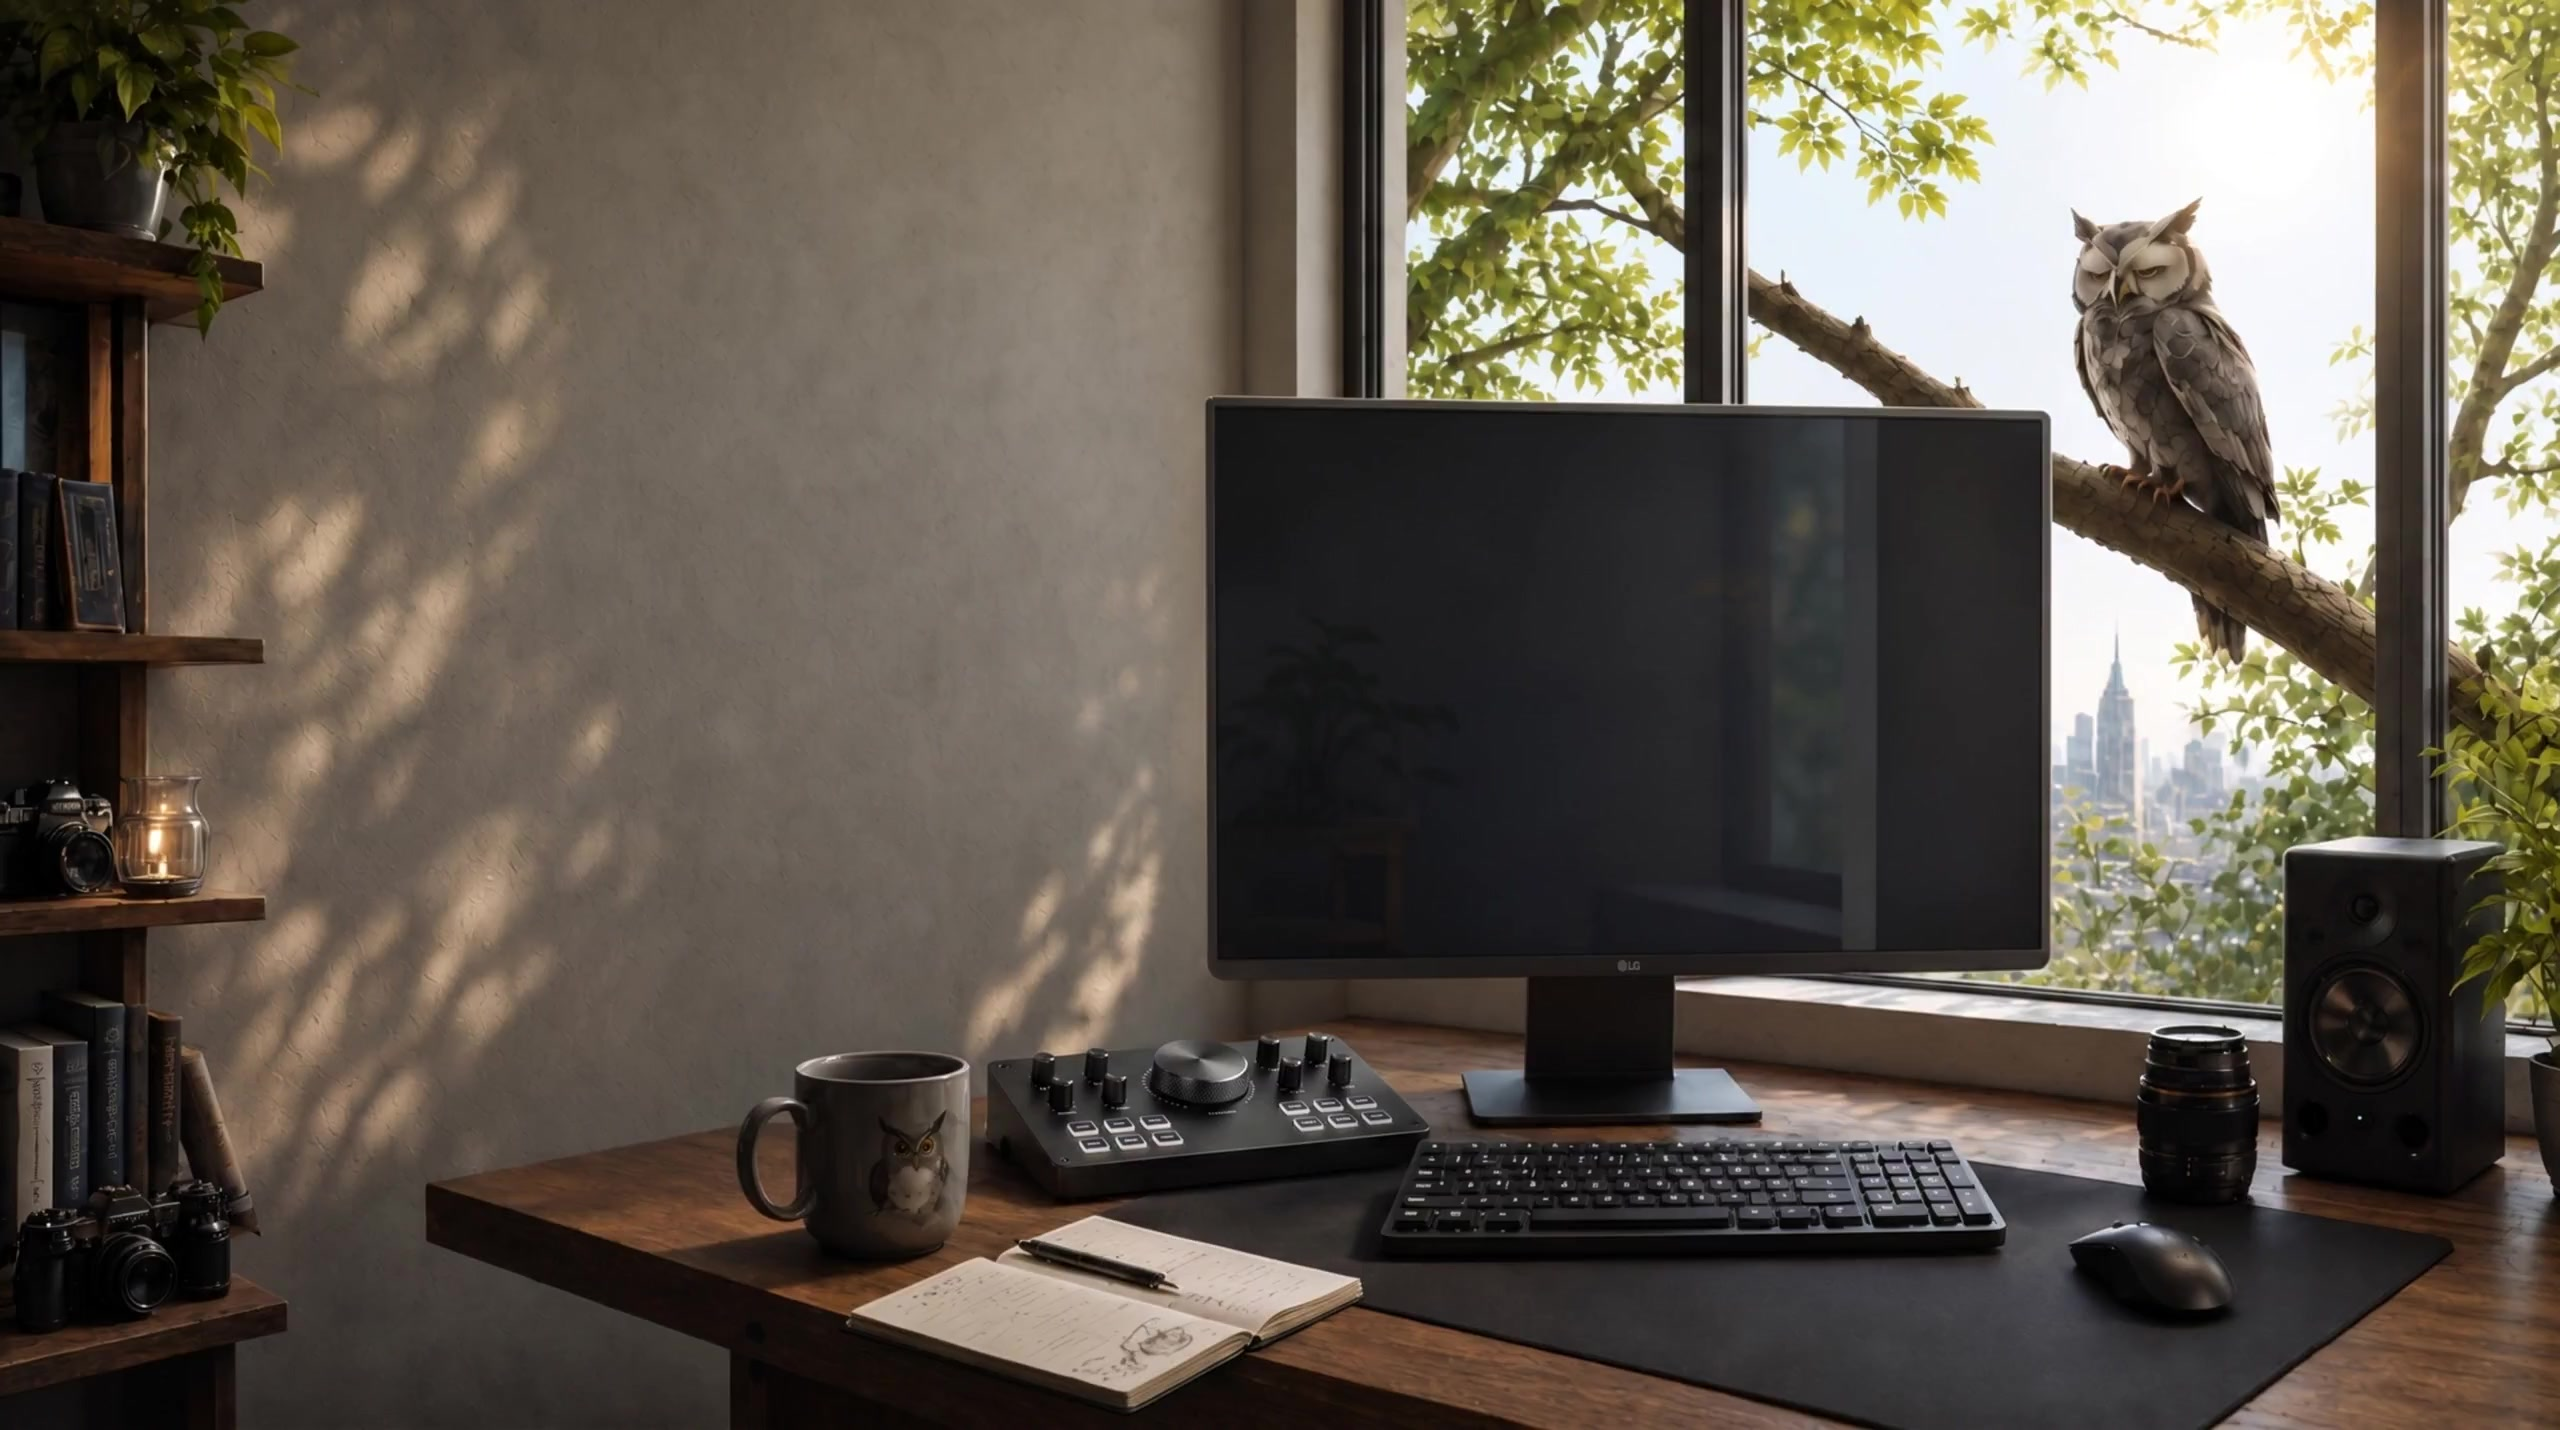
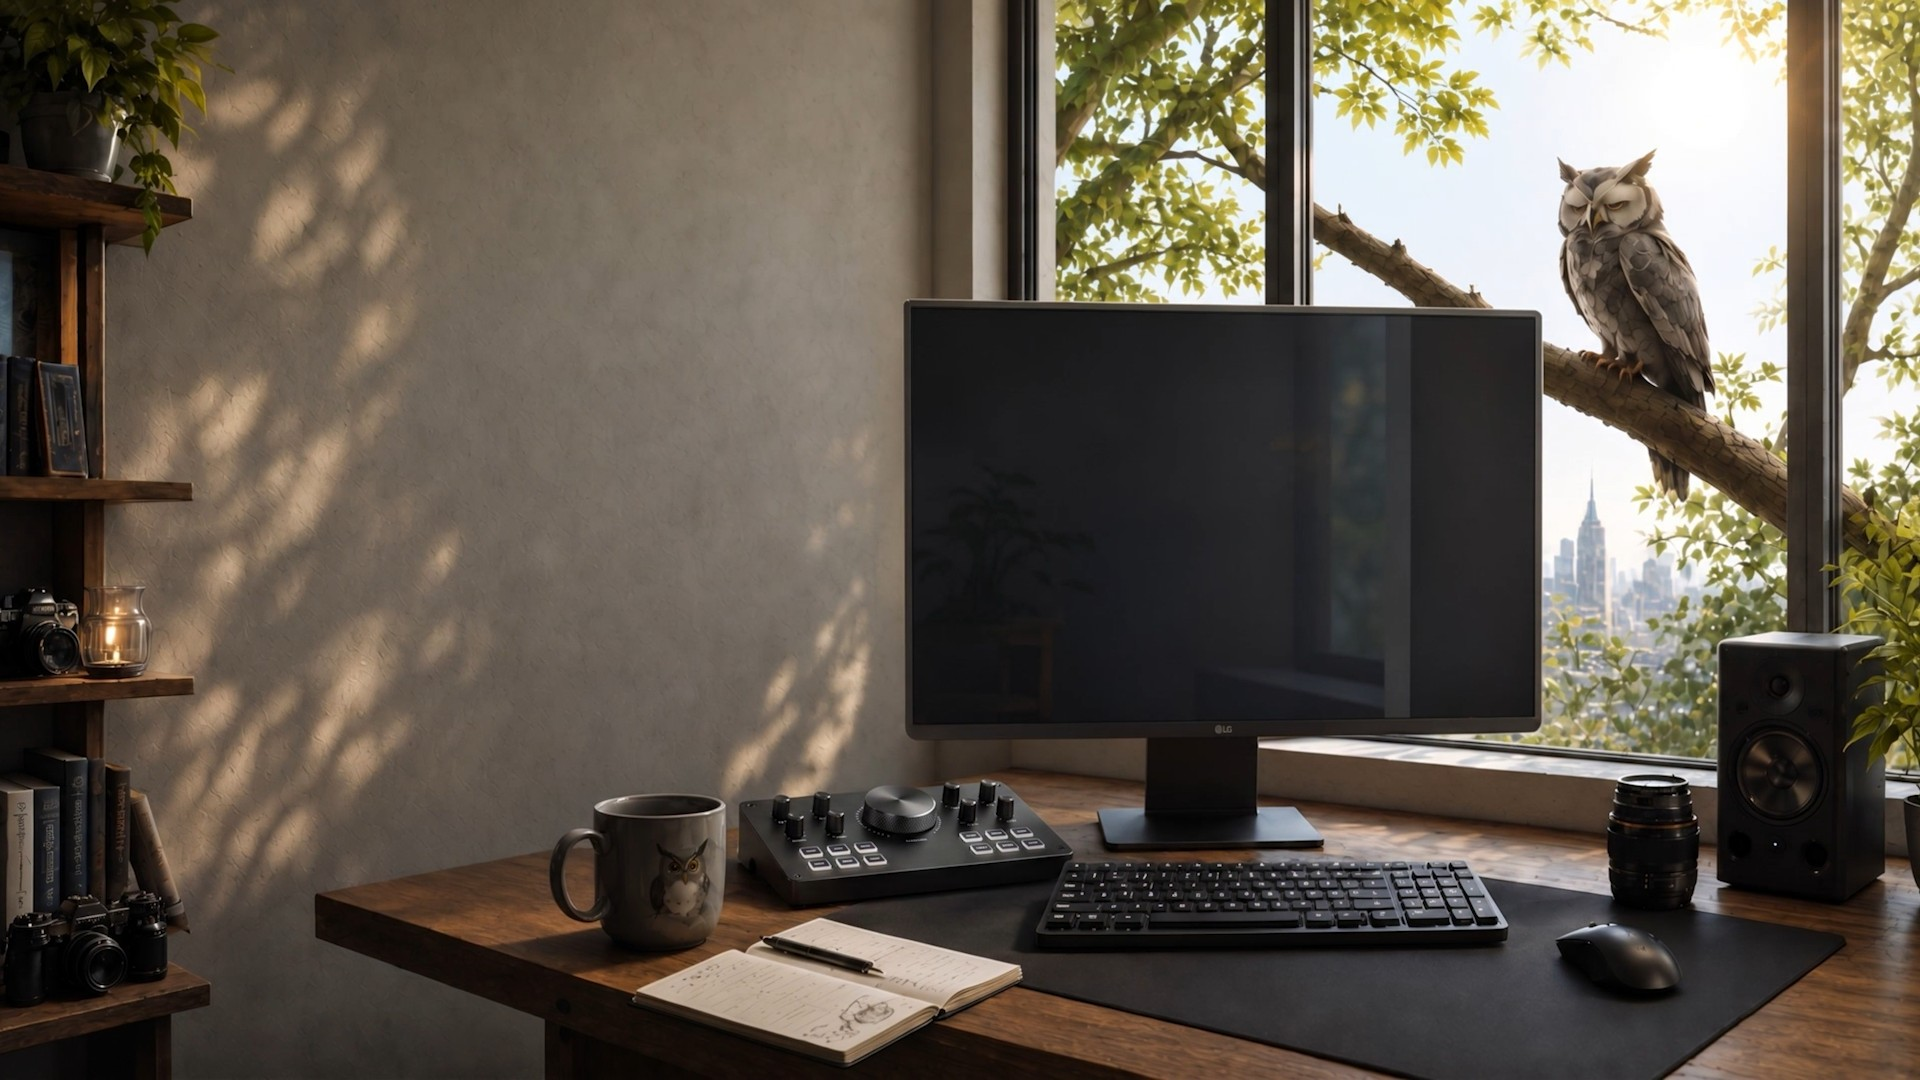
auto-commit for 32333288-a044-423b-a405-b2919ac58398

diff --git a/frontend/src/components/site/Approach.jsx b/frontend/src/components/site/Approach.jsx
@@ -9,8 +9,9 @@ import { APPROACH } from "@/constants/testIds";
 // Midnight Owl workspace video.
 // Frame 0  = NIGHT (moon, awake owl, dark room)
 // Last frame = DAY (sunshine, sleeping owl, bright room)
-// Video is 2560 × 1430 (≈1.79:1), all-intra H.264 for smooth bidirectional
-// scrubbing on every platform. Duration ≈ 5s @ 24fps.
+// Video is 1920 × 1080 (16:9), all-intra H.264 (CRF 15) encoded from the
+// original 121-frame WebP sequence for smooth bidirectional scrubbing.
+// Duration ≈ 5s @ 24fps.
 //
 // Slow-connection strategy: until the video is FULLY buffered, the Push/Pull
 // transition is a smooth crossfade between two stills (night/day keyframes).
@@ -23,18 +24,18 @@ const WORKSPACE_DAY_URL = "/images/owl-workspace-day.jpg";
 
 // Natural aspect of the workspace video — the wrapper matches it exactly
 // so percentage-anchored overlays map 1:1 onto video pixels (zero crop).
-const VIDEO_ASPECT = "2560 / 1430";
+const VIDEO_ASPECT = "1920 / 1080";
 
 // The monitor in the frame is slightly tilted (perspective), so the screen
 // is a QUAD, not an axis-aligned rectangle. Corners measured from the video
-// frame (as % of frame width/height), inset ~0.15% so the card never touches
-// the bezel anti-aliasing. The Examples card is perspective-mapped onto this
+// frame (as % of frame width/height), inset so the card sits just inside
+// the LG monitor bezel. The Examples card is perspective-mapped onto this
 // quad with a computed CSS matrix3d — a true "projected on the screen" fit.
 const SCREEN_QUAD = {
-  tl: [47.22, 27.9],
-  tr: [79.68, 29.38],
-  br: [79.94, 67.62],
-  bl: [47.27, 68.55],
+  tl: [48.0, 29.9],
+  tr: [79.4, 30.7],
+  br: [79.4, 66.9],
+  bl: [48.0, 66.0],
 };
 // Pre-transform card rectangle (% of wrapper) — proportions close to the
 // quad's natural size so content isn't visibly distorted by the mapping.

diff --git a/test_result.md b/test_result.md
@@ -592,14 +592,14 @@ agent_communication:
   - agent: "testing"
     message: "Iteration 6.1 bug fix testing COMPLETE. All tests PASSED ✅. PRIMARY BUG FIX VERIFIED: The double audio bug is completely resolved. Desktop viewport shows exactly 3 play buttons (not 6), proving only one layout renders. When playing a video, exactly 1 iframe mounts (not 2) - this is the core fix. Switching between videos correctly unmounts the previous iframe, stopping its audio. Mobile viewport also shows exactly 3 play buttons and 1 iframe when playing. Cross-viewport resize test confirms no orphan iframes survive layout changes (playingIdx resets to -1). All regression checks passed: custom thumbnails present, no kicker tags, allstarsteven comment with verified badge visible in Voices, HowItWorks arrows functional. The matchMedia hook implementation successfully prevents the root cause - only ONE iframe can exist in the DOM at any time, eliminating the parallel audio playback issue. Ready for production."
   - agent: "testing"
-    message: "Brief form validation UX testing COMPLETE at https://seamless-hero-flow.preview.emergentagent.com/brief. All critical validation behaviors verified and working correctly: (1) Required field indicators (*) correctly shown only on 'Full name' and 'Email address' labels, NOT on Phone/Company/Website. (2) Submit button is always clickable (not disabled) when form is empty, only disabled while submitting. (3) Empty form submission triggers red error summary banner (data-testid='brief-error-summary') showing '4 THINGS NEED YOUR ATTENTION' with inline red errors below name, email, services, and projectDetails fields. Page smoothly scrolls to first invalid field (name). (4) Invalid email 'notanemail' shows friendly inline error: 'That email doesn't look right — try something like [email redacted].' (5) Errors clear in real-time as user types valid input - email error disappeared when typing '[email redacted]'. (6) Valid submission with all fields filled correctly (name: 'Playwright Test', phone: '[phone redacted]', email: '[email redacted]', company: 'Test Co', website: 'https://example.com', service: 'Video Production and Ad Films', project details: proper description) successfully completes and shows success state with data-testid='brief-success-heading' displaying 'We've got your brief.' Minor note: Error summary text is styled in uppercase via CSS (intentional design), not a bug. All validation logic, error handling, and UX flows working as specified."
+    message: "Brief form validation UX testing COMPLETE at https://push-pull-demo-1.preview.emergentagent.com/brief. All critical validation behaviors verified and working correctly: (1) Required field indicators (*) correctly shown only on 'Full name' and 'Email address' labels, NOT on Phone/Company/Website. (2) Submit button is always clickable (not disabled) when form is empty, only disabled while submitting. (3) Empty form submission triggers red error summary banner (data-testid='brief-error-summary') showing '4 THINGS NEED YOUR ATTENTION' with inline red errors below name, email, services, and projectDetails fields. Page smoothly scrolls to first invalid field (name). (4) Invalid email 'notanemail' shows friendly inline error: 'That email doesn't look right — try something like [email redacted].' (5) Errors clear in real-time as user types valid input - email error disappeared when typing '[email redacted]'. (6) Valid submission with all fields filled correctly (name: 'Playwright Test', phone: '[phone redacted]', email: '[email redacted]', company: 'Test Co', website: 'https://example.com', service: 'Video Production and Ad Films', project details: proper description) successfully completes and shows success state with data-testid='brief-success-heading' displaying 'We've got your brief.' Minor note: Error summary text is styled in uppercase via CSS (intentional design), not a bug. All validation logic, error handling, and UX flows working as specified."
   - agent: "testing"
-    message: "COMPREHENSIVE SMOKE TEST COMPLETE (Iteration 7 features) at https://seamless-hero-flow.preview.emergentagent.com/. ALL TESTS PASSED ✅. Verified: (1) Owl PNG logo (/images/owl-logo.png) present in Nav (top-left with purple glow next to 'MIDNIGHT OWL MEDIA' wordmark), Footer (bottom with 'Midnight Owl Media' text), and Brief page header (top-left) - all three locations confirmed. (2) Pull-section videos in Approach: All 3 videos playing (pull-1.mp4, pull-2.mp4, pull-3.mp4), play buttons functional (3/3 visible), VideoLightbox opens/closes correctly, Push/Pull toggle works. (3) Work section 'See all' button: Correct href (https://linktr.ee/Midnightowlmedia), opens in new tab (target='_blank'). (4) Brief page new copy: Eyebrow '// Say hello', headline 'Let's talk.' (with 'talk.' in purple italic serif), all 6 section titles present (01 'Hi, my name is…', 02 'You can reach me at…', 03 'I work at…', 04 'I'd like help with…', 05 'Here's what I'm building…', 06 'Send it over'), '// Prefer email?' section at bottom with mailto:[email redacted] link (data-testid='brief-direct-email'). (5) Form submission: Works correctly, shows success state 'We've got your brief.' with owl-eye animation. Backend logs confirm 200 OK responses with successful Slack/Google Sheets integration. Screenshots captured: nav logo, approach pull videos, brief page top/bottom, form success. No issues found - all new features working as specified."
+    message: "COMPREHENSIVE SMOKE TEST COMPLETE (Iteration 7 features) at https://push-pull-demo-1.preview.emergentagent.com/. ALL TESTS PASSED ✅. Verified: (1) Owl PNG logo (/images/owl-logo.png) present in Nav (top-left with purple glow next to 'MIDNIGHT OWL MEDIA' wordmark), Footer (bottom with 'Midnight Owl Media' text), and Brief page header (top-left) - all three locations confirmed. (2) Pull-section videos in Approach: All 3 videos playing (pull-1.mp4, pull-2.mp4, pull-3.mp4), play buttons functional (3/3 visible), VideoLightbox opens/closes correctly, Push/Pull toggle works. (3) Work section 'See all' button: Correct href (https://linktr.ee/Midnightowlmedia), opens in new tab (target='_blank'). (4) Brief page new copy: Eyebrow '// Say hello', headline 'Let's talk.' (with 'talk.' in purple italic serif), all 6 section titles present (01 'Hi, my name is…', 02 'You can reach me at…', 03 'I work at…', 04 'I'd like help with…', 05 'Here's what I'm building…', 06 'Send it over'), '// Prefer email?' section at bottom with mailto:[email redacted] link (data-testid='brief-direct-email'). (5) Form submission: Works correctly, shows success state 'We've got your brief.' with owl-eye animation. Backend logs confirm 200 OK responses with successful Slack/Google Sheets integration. Screenshots captured: nav logo, approach pull videos, brief page top/bottom, form success. No issues found - all new features working as specified."
   - agent: "testing"
-    message: "Iteration 7 bug fixes and content changes testing COMPLETE at https://seamless-hero-flow.preview.emergentagent.com/. ALL CHANGES VERIFIED ✅. PRIMARY BUG FIX (CRITICAL): Get In Touch scroll bug FIXED — /brief page opens at Y=0px with 'Let's talk.' headline visible at Y=160.5px. User flow tested: scrolled landing page to bottom (Y=5919px) → clicked 'Get In Touch' → /brief opened at top (Y=0px). useEffect scroll reset working perfectly. OTHER CHANGES: (1) Approach taglines — Pull: 'Real examples from people who identified the opportunity early!', Push: 'every brand is stuck here' — both verified on monitor screen. (2) Contact section — no golden eyes/pulsing animations (0 found), nightscape bg-3.webp visible with tint, clean design. (3) Background images — FAQ (bg-1.webp), Voices (bg-2.webp), Contact (bg-3.webp) all have cinematic nightscapes with dark linear tints. (4) FAQ heading — 'You might have questions.' with 'questions.' in purple (rgb(164,74,255)) italic. (5) FAQ answer — new single-paragraph answer about proven strategies visible. (6) Brief subtext — all three sentences present, properly separated. (7) Required asterisks — Full name*, Email* (Phone NO asterisk ✓), Section 04 'Select at least one*', Section 05 'About your project*' — all purple (rgb(164,74,255)). Screenshots confirm all visual changes. No issues found — all bug fixes and content changes working as specified."
+    message: "Iteration 7 bug fixes and content changes testing COMPLETE at https://push-pull-demo-1.preview.emergentagent.com/. ALL CHANGES VERIFIED ✅. PRIMARY BUG FIX (CRITICAL): Get In Touch scroll bug FIXED — /brief page opens at Y=0px with 'Let's talk.' headline visible at Y=160.5px. User flow tested: scrolled landing page to bottom (Y=5919px) → clicked 'Get In Touch' → /brief opened at top (Y=0px). useEffect scroll reset working perfectly. OTHER CHANGES: (1) Approach taglines — Pull: 'Real examples from people who identified the opportunity early!', Push: 'every brand is stuck here' — both verified on monitor screen. (2) Contact section — no golden eyes/pulsing animations (0 found), nightscape bg-3.webp visible with tint, clean design. (3) Background images — FAQ (bg-1.webp), Voices (bg-2.webp), Contact (bg-3.webp) all have cinematic nightscapes with dark linear tints. (4) FAQ heading — 'You might have questions.' with 'questions.' in purple (rgb(164,74,255)) italic. (5) FAQ answer — new single-paragraph answer about proven strategies visible. (6) Brief subtext — all three sentences present, properly separated. (7) Required asterisks — Full name*, Email* (Phone NO asterisk ✓), Section 04 'Select at least one*', Section 05 'About your project*' — all purple (rgb(164,74,255)). Screenshots confirm all visual changes. No issues found — all bug fixes and content changes working as specified."
 
   - agent: "testing"
-    message: "ITERATION 11 LAYOUT/FORMATTING VERIFICATION COMPLETE at https://1d6e94f1-c036-4712-a221-f92e691d354c.preview.emergentagent.com/. Executed all 5 checks plus regression tests. RESULTS: ✅ CHECK 1 PASS (HowItWorks gap): Desktop gap 68px (< 150px), Mobile gap 44px (tight). ✅ CHECK 2 PASS (HowItWorks mobile bleed): Visual inspection confirms no adjacent slide text bleed — only Step 1 content visible within overflow-hidden container, Step 2 positioned outside clip area. mx-14 margins create hard clean edge. ✅ CHECK 3 PASS (Approach mobile transparent): Mobile container background is rgba(0,0,0,0), solid --mo-bg-elev removed, nightscape visible through glass panels. ✅ CHECK 4 PASS (Voices 2-3-3 layout): Exactly 3 slides with correct grouping — Slide 1: 2 cards (GangisDankus+ShooterMacgavin), Slide 2: 3 cards (JayJames+shantanu+allstarsteven), Slide 3: 3 cards (samuelbryan+angelin+vinaydembla). allstarsteven correctly on slide 2. ✅ CHECK 5 PASS (Voices text left-aligned): Carousel textAlign: 'left', Instagram comments stack flush left, no per-line centering. REGRESSIONS: ✅ Clouds removed (.mo-cloud-drift = null). ✅ Brief eyebrow '// Say hello' with purple '//'. ✅ Mobile hero owl box visible (342×273px). Screenshots captured for all checks. All layout/formatting fixes working as specified. Ready for production."
+    message: "ITERATION 11 LAYOUT/FORMATTING VERIFICATION COMPLETE at https://push-pull-demo-1.preview.emergentagent.com/. Executed all 5 checks plus regression tests. RESULTS: ✅ CHECK 1 PASS (HowItWorks gap): Desktop gap 68px (< 150px), Mobile gap 44px (tight). ✅ CHECK 2 PASS (HowItWorks mobile bleed): Visual inspection confirms no adjacent slide text bleed — only Step 1 content visible within overflow-hidden container, Step 2 positioned outside clip area. mx-14 margins create hard clean edge. ✅ CHECK 3 PASS (Approach mobile transparent): Mobile container background is rgba(0,0,0,0), solid --mo-bg-elev removed, nightscape visible through glass panels. ✅ CHECK 4 PASS (Voices 2-3-3 layout): Exactly 3 slides with correct grouping — Slide 1: 2 cards (GangisDankus+ShooterMacgavin), Slide 2: 3 cards (JayJames+shantanu+allstarsteven), Slide 3: 3 cards (samuelbryan+angelin+vinaydembla). allstarsteven correctly on slide 2. ✅ CHECK 5 PASS (Voices text left-aligned): Carousel textAlign: 'left', Instagram comments stack flush left, no per-line centering. REGRESSIONS: ✅ Clouds removed (.mo-cloud-drift = null). ✅ Brief eyebrow '// Say hello' with purple '//'. ✅ Mobile hero owl box visible (342×273px). Screenshots captured for all checks. All layout/formatting fixes working as specified. Ready for production."
 
   - agent: "testing"
-    message: "FINAL VERIFICATION COMPLETE — ALL 6 ANDROID/MOBILE TESTS PASSED ✅ at https://1d6e94f1-c036-4712-a221-f92e691d354c.preview.emergentagent.com/. Comprehensive read-only verification executed. TEST 1 (Android hero CTA visibility): ✅ PASS across all 3 viewports — 393x660 Pixel (primary bottom=537px, secondary bottom=591px, viewport=660px), 360x620 tight Android (primary bottom=559px, secondary bottom=613px, viewport=620px), 390x844 iPhone (primary bottom=535px, secondary bottom=589px, viewport=844px). Both CTAs fully visible without scrolling on all Android-sized viewports. TEST 2 (Hero svh): ✅ PASS — minHeight=660px matches viewportH=660px (within 2px tolerance), confirming min-h-[100svh] implementation respects URL-bar-visible viewport. TEST 3 (Lenis behavior): ✅ PASS — /brief has lenis-stopped=true, native scroll works (scrollY=400 after scrollTo(400)), / has lenis-stopped=false (smooth scroll active). Android keyboard behavior should work correctly. TEST 4 (Viewport meta): ✅ PASS — meta content='width=device-width, initial-scale=1, viewport-fit=cover, interactive-widget=resizes-content' contains all required attributes for proper Android keyboard handling. TEST 5 (/brief form input regression): ✅ PASS — name input accepts and retains 'Test User' value, no keyboard-related input issues. TEST 6 (Desktop regression): ✅ PASS — hero-mobile-media hidden on desktop 1440x900. All Android/mobile viewport fixes working as specified. No code modifications made (read-only verification). Ready for production deployment."
+    message: "FINAL VERIFICATION COMPLETE — ALL 6 ANDROID/MOBILE TESTS PASSED ✅ at https://push-pull-demo-1.preview.emergentagent.com/. Comprehensive read-only verification executed. TEST 1 (Android hero CTA visibility): ✅ PASS across all 3 viewports — 393x660 Pixel (primary bottom=537px, secondary bottom=591px, viewport=660px), 360x620 tight Android (primary bottom=559px, secondary bottom=613px, viewport=620px), 390x844 iPhone (primary bottom=535px, secondary bottom=589px, viewport=844px). Both CTAs fully visible without scrolling on all Android-sized viewports. TEST 2 (Hero svh): ✅ PASS — minHeight=660px matches viewportH=660px (within 2px tolerance), confirming min-h-[100svh] implementation respects URL-bar-visible viewport. TEST 3 (Lenis behavior): ✅ PASS — /brief has lenis-stopped=true, native scroll works (scrollY=400 after scrollTo(400)), / has lenis-stopped=false (smooth scroll active). Android keyboard behavior should work correctly. TEST 4 (Viewport meta): ✅ PASS — meta content='width=device-width, initial-scale=1, viewport-fit=cover, interactive-widget=resizes-content' contains all required attributes for proper Android keyboard handling. TEST 5 (/brief form input regression): ✅ PASS — name input accepts and retains 'Test User' value, no keyboard-related input issues. TEST 6 (Desktop regression): ✅ PASS — hero-mobile-media hidden on desktop 1440x900. All Android/mobile viewport fixes working as specified. No code modifications made (read-only verification). Ready for production deployment."